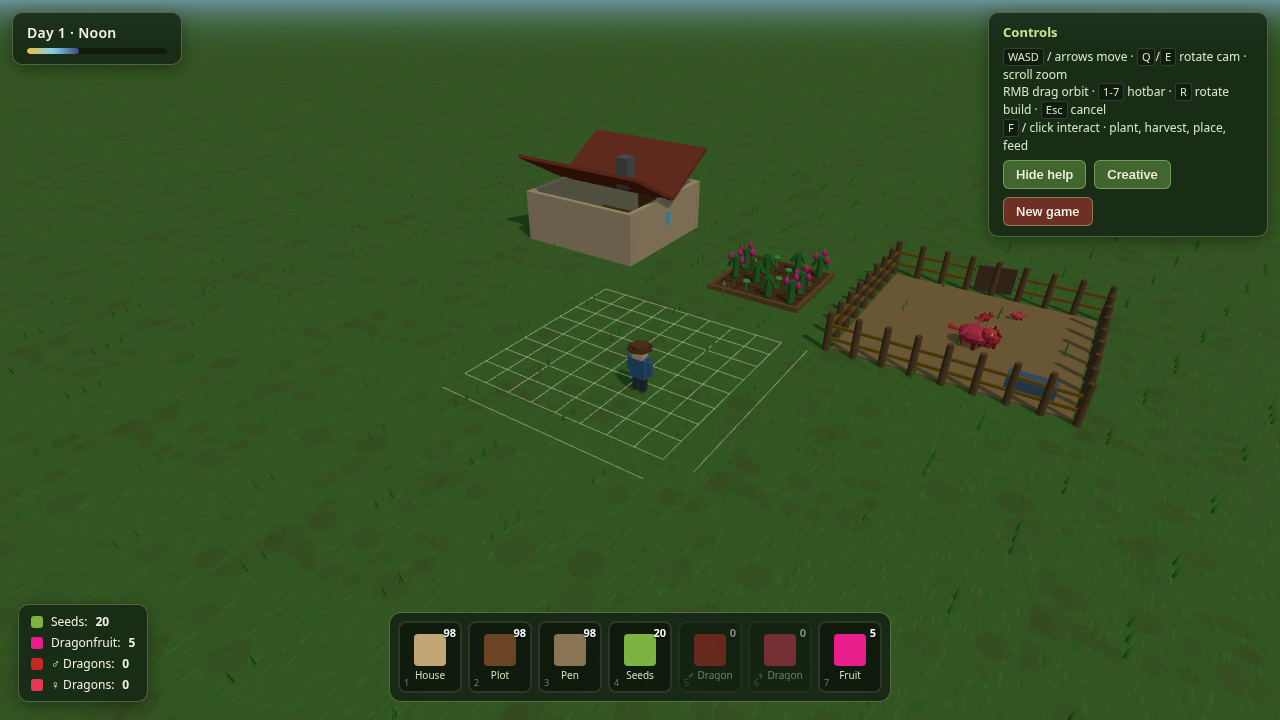
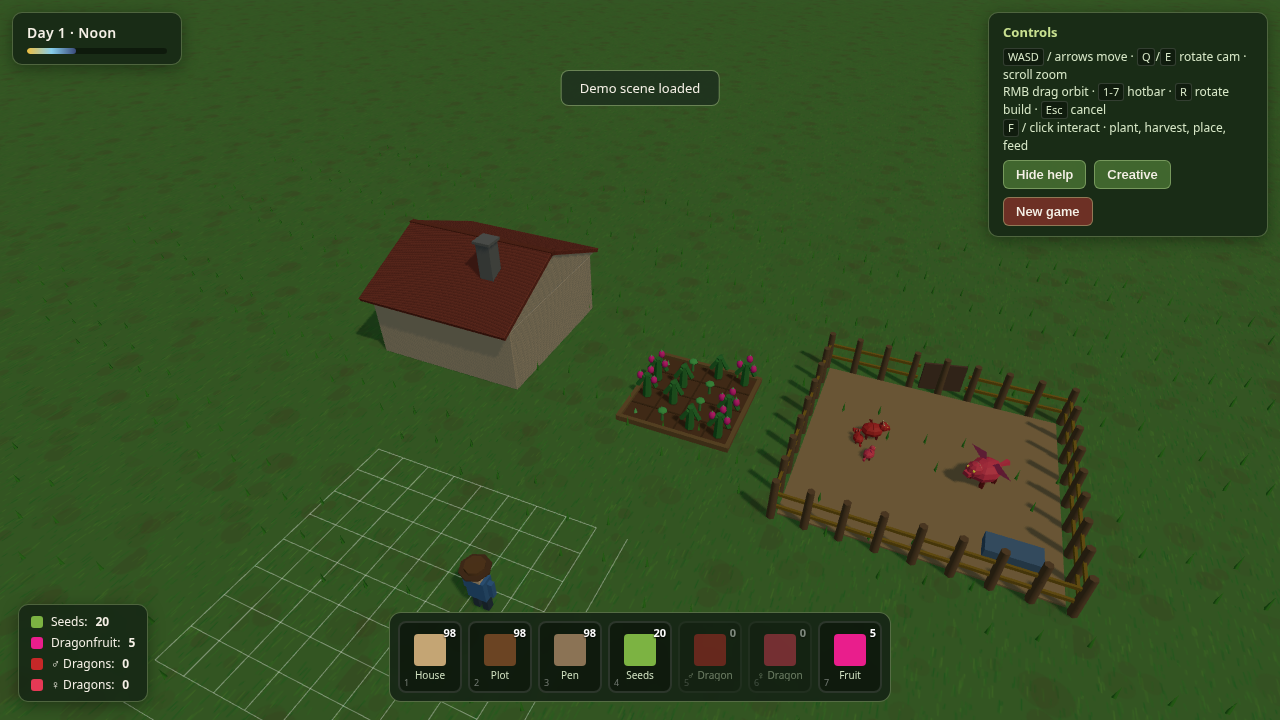
Fix farmhouse pitched roof, gables, and chimney
Rebuild farmhouse with exact-vertex roof slabs that meet at the ridge,
extruded triangular gables spanning the full roof profile, attic seal,
door/windows, and chimney through the north slope. Skip pen fence
collision (rotation/gate complexity). Refresh demo screenshots.

diff --git a/src/buildings.js b/src/buildings.js
@@ -6,93 +6,200 @@ function setShadow(mesh) {
   mesh.receiveShadow = true;
 }
 
-/** Build a low-poly farmhouse group (6x6 footprint, origin at SW corner of footprint). */
+/** Build a low-poly farmhouse group (6x6 footprint, origin at SW corner). */
 export function createFarmhouse() {
   const g = new THREE.Group();
   g.name = 'farmhouse';
   const w = BUILDINGS.farmhouse.w;
   const d = BUILDINGS.farmhouse.d;
 
-  // Floor
-  const floor = new THREE.Mesh(
-    new THREE.BoxGeometry(w - 0.2, 0.15, d - 0.2),
-    new THREE.MeshStandardMaterial({ color: 0x8b6914 })
-  );
-  floor.position.set(w / 2, 0.08, d / 2);
-  setShadow(floor);
-  g.add(floor);
+  const wallMat = new THREE.MeshStandardMaterial({
+    color: 0xd4b896,
+    roughness: 0.78,
+    side: THREE.DoubleSide,
+  });
+  const roofMat = new THREE.MeshStandardMaterial({
+    color: 0x8b3a2a,
+    roughness: 0.85,
+    flatShading: true,
+    side: THREE.DoubleSide,
+  });
+  const woodMat = new THREE.MeshStandardMaterial({ color: 0x5c3317, roughness: 0.9 });
+  const glassMat = new THREE.MeshStandardMaterial({
+    color: 0x87ceeb,
+    emissive: 0x224466,
+    emissiveIntensity: 0.35,
+    roughness: 0.4,
+  });
+  const brickMat = new THREE.MeshStandardMaterial({ color: 0x6a6a6a, roughness: 0.95 });
+  const floorMat = new THREE.MeshStandardMaterial({ color: 0x8b6914, roughness: 1 });
+  const ridgeMat = new THREE.MeshStandardMaterial({ color: 0x6b2a1a, roughness: 0.9 });
 
-  // Walls
-  const wallMat = new THREE.MeshStandardMaterial({ color: 0xd4b896, roughness: 0.75 });
-  const wallH = 2.4;
-  const thick = 0.25;
-  // Walls with door gap on south
-  // South wall with door: two pieces
+  const wallH = 2.5;
+  const thick = 0.3;
   const doorW = 1.2;
-  const leftW = (w - doorW) / 2;
-  const swL = new THREE.Mesh(new THREE.BoxGeometry(leftW, wallH, thick), wallMat);
-  swL.position.set(leftW / 2, wallH / 2, thick / 2);
-  setShadow(swL);
-  g.add(swL);
-  const swR = new THREE.Mesh(new THREE.BoxGeometry(leftW, wallH, thick), wallMat);
-  swR.position.set(w - leftW / 2, wallH / 2, thick / 2);
-  setShadow(swR);
-  g.add(swR);
+  const doorH = 1.9;
+  // Overhang only on the sloping eaves (N/S). Gable ends (E/W) stay nearly flush
+  // so triangular gables meet the roof with no sky gaps.
+  const eaveOverhang = 0.45;
+  const gableOverhang = 0.12;
+  const ridgeH = wallH + 1.55;
+  const eaveY = wallH;
 
-  // North
-  const nw = new THREE.Mesh(new THREE.BoxGeometry(w, wallH, thick), wallMat);
-  nw.position.set(w / 2, wallH / 2, d - thick / 2);
-  setShadow(nw);
-  g.add(nw);
-  // West / East
-  const ww = new THREE.Mesh(new THREE.BoxGeometry(thick, wallH, d - thick * 2), wallMat);
-  ww.position.set(thick / 2, wallH / 2, d / 2);
-  setShadow(ww);
-  g.add(ww);
-  const ew = ww.clone();
-  ew.position.x = w - thick / 2;
-  g.add(ew);
+  const addBox = (geo, mat, x, y, z) => {
+    const m = new THREE.Mesh(geo, mat);
+    m.position.set(x, y, z);
+    setShadow(m);
+    g.add(m);
+    return m;
+  };
+
+  // Floor
+  addBox(new THREE.BoxGeometry(w - 0.1, 0.12, d - 0.1), floorMat, w / 2, 0.06, d / 2);
+
+  // --- Walls with door on south ---
+  const sideW = (w - doorW) / 2;
+  addBox(new THREE.BoxGeometry(sideW, wallH, thick), wallMat, sideW / 2, wallH / 2, thick / 2);
+  addBox(new THREE.BoxGeometry(sideW, wallH, thick), wallMat, w - sideW / 2, wallH / 2, thick / 2);
+  const lintelH = wallH - doorH;
+  addBox(new THREE.BoxGeometry(doorW, lintelH, thick), wallMat, w / 2, doorH + lintelH / 2, thick / 2);
+  addBox(new THREE.BoxGeometry(w, wallH, thick), wallMat, w / 2, wallH / 2, d - thick / 2);
+  addBox(new THREE.BoxGeometry(thick, wallH, d - thick * 2), wallMat, thick / 2, wallH / 2, d / 2);
+  addBox(new THREE.BoxGeometry(thick, wallH, d - thick * 2), wallMat, w - thick / 2, wallH / 2, d / 2);
 
   // Door
-  const door = new THREE.Mesh(
-    new THREE.BoxGeometry(doorW * 0.9, 1.8, 0.08),
-    new THREE.MeshStandardMaterial({ color: 0x5c3317 })
-  );
-  door.position.set(w / 2, 0.9, thick / 2 + 0.05);
+  const door = new THREE.Mesh(new THREE.BoxGeometry(doorW * 0.9, doorH * 0.95, 0.1), woodMat);
+  door.position.set(w / 2, doorH * 0.48, thick / 2 + 0.06);
   g.add(door);
-
-  // Roof (pitched)
-  const roofMat = new THREE.MeshStandardMaterial({ color: 0x8b3a2a, roughness: 0.85, flatShading: true });
-  const ridge = wallH + 1.6;
-  const eave = wallH - 0.05;
-  // Simple two-plane roof via boxes rotated
-  const roofL = new THREE.Mesh(new THREE.BoxGeometry(w + 0.6, 0.15, d / 2 + 0.4), roofMat);
-  roofL.position.set(w / 2, (eave + ridge) / 2, d / 4);
-  roofL.rotation.x = Math.atan2(ridge - eave, d / 2);
-  setShadow(roofL);
-  g.add(roofL);
-  const roofR = new THREE.Mesh(new THREE.BoxGeometry(w + 0.6, 0.15, d / 2 + 0.4), roofMat);
-  roofR.position.set(w / 2, (eave + ridge) / 2, (3 * d) / 4);
-  roofR.rotation.x = -Math.atan2(ridge - eave, d / 2);
-  setShadow(roofR);
-  g.add(roofR);
-
-  // Chimney
-  const chim = new THREE.Mesh(
-    new THREE.BoxGeometry(0.6, 1.4, 0.6),
-    new THREE.MeshStandardMaterial({ color: 0x6a6a6a })
+  const knob = new THREE.Mesh(
+    new THREE.SphereGeometry(0.05, 6, 4),
+    new THREE.MeshStandardMaterial({ color: 0xd4af37 })
   );
-  chim.position.set(w * 0.75, wallH + 1.2, d * 0.7);
+  knob.position.set(w / 2 + doorW * 0.28, doorH * 0.45, thick / 2 + 0.13);
+  g.add(knob);
+
+  // Windows
+  const addWindow = (x, y, z, rotY = 0) => {
+    const frame = new THREE.Mesh(new THREE.BoxGeometry(0.9, 0.9, 0.12), woodMat);
+    frame.position.set(x, y, z);
+    frame.rotation.y = rotY;
+    g.add(frame);
+    const glass = new THREE.Mesh(new THREE.BoxGeometry(0.68, 0.68, 0.06), glassMat);
+    glass.position.set(x + Math.sin(rotY) * 0.04, y, z + Math.cos(rotY) * 0.04);
+    glass.rotation.y = rotY;
+    g.add(glass);
+  };
+  addWindow(w - thick / 2, 1.5, d * 0.3, Math.PI / 2);
+  addWindow(w - thick / 2, 1.5, d * 0.7, Math.PI / 2);
+  addWindow(thick / 2, 1.5, d * 0.5, -Math.PI / 2);
+  addWindow(w * 0.35, 1.5, d - thick / 2, Math.PI);
+  addWindow(w * 0.65, 1.5, d - thick / 2, Math.PI);
+
+  // --- Gable walls: pentagon matching roof line at the end wall plane ---
+  // Roof y along Z: y(z) = ridgeH - |z - d/2| / (d/2 + eaveOverhang) * (ridgeH - eaveY)
+  const run = d / 2 + eaveOverhang;
+  const rise = ridgeH - eaveY;
+  const roofYAt = (z) => ridgeH - (Math.abs(z - d / 2) / run) * rise;
+
+  // Gables span the FULL roof depth (including eave overhangs) so the end
+  // elevation is a solid triangle under the entire roof profile — no sky gaps.
+  const buildGable = (x) => {
+    const halfSpan = d / 2 + eaveOverhang; // matches roof run
+    const shape = new THREE.Shape();
+    // Local: X → house Z (centered at ridge), Y → up from eaveY
+    shape.moveTo(-halfSpan, 0);
+    shape.lineTo(0, ridgeH - eaveY);
+    shape.lineTo(halfSpan, 0);
+    shape.closePath();
+    const geo = new THREE.ExtrudeGeometry(shape, { depth: thick * 0.85, bevelEnabled: false });
+    geo.translate(0, 0, -thick * 0.425);
+    const mesh = new THREE.Mesh(geo, wallMat);
+    mesh.rotation.y = Math.PI / 2;
+    mesh.position.set(x, eaveY, d / 2);
+    setShadow(mesh);
+    g.add(mesh);
+  };
+  buildGable(thick / 2);
+  buildGable(w - thick / 2);
+
+  // --- Roof: two slabs with exact corners (eave overhang N/S, slight gable overhang E/W) ---
+  const x0 = -gableOverhang;
+  const x1 = w + gableOverhang;
+  const zRidge = d / 2;
+  const zSouth = -eaveOverhang;
+  const zNorth = d + eaveOverhang;
+  const thickness = 0.16;
+
+  const makeRoofSlab = (zEave) => {
+    // Bottom surface (underside)
+    const A = [x0, eaveY, zEave];
+    const B = [x1, eaveY, zEave];
+    const C = [x1, ridgeH, zRidge];
+    const D = [x0, ridgeH, zRidge];
+    // Normal of roof plane (pointing roughly up)
+    const e1 = [B[0] - A[0], B[1] - A[1], B[2] - A[2]];
+    const e2 = [D[0] - A[0], D[1] - A[1], D[2] - A[2]];
+    let nx = e1[1] * e2[2] - e1[2] * e2[1];
+    let ny = e1[2] * e2[0] - e1[0] * e2[2];
+    let nz = e1[0] * e2[1] - e1[1] * e2[0];
+    const nl = Math.hypot(nx, ny, nz) || 1;
+    nx /= nl; ny /= nl; nz /= nl;
+    if (ny < 0) { nx = -nx; ny = -ny; nz = -nz; }
+    const lift = (p) => [p[0] + nx * thickness, p[1] + ny * thickness, p[2] + nz * thickness];
+    const At = lift(A), Bt = lift(B), Ct = lift(C), Dt = lift(D);
+
+    const pos = [];
+    const quad = (a, b, c, d) => { pos.push(...a, ...b, ...c, ...a, ...c, ...d); };
+    quad(At, Bt, Ct, Dt); // top
+    quad(A, D, C, B); // bottom
+    quad(A, B, Bt, At); // eave edge
+    quad(D, C, Ct, Dt); // ridge edge
+    quad(A, At, Dt, D); // x0 side
+    quad(B, C, Ct, Bt); // x1 side
+
+    const geo = new THREE.BufferGeometry();
+    geo.setAttribute('position', new THREE.Float32BufferAttribute(pos, 3));
+    geo.computeVertexNormals();
+    const mesh = new THREE.Mesh(geo, roofMat);
+    setShadow(mesh);
+    g.add(mesh);
+  };
+  makeRoofSlab(zSouth);
+  makeRoofSlab(zNorth);
+
+  // Ridge beam
+  addBox(
+    new THREE.BoxGeometry(w + gableOverhang * 2 + 0.08, 0.14, 0.22),
+    ridgeMat,
+    w / 2,
+    ridgeH + thickness * 0.6,
+    d / 2
+  );
+
+  // Attic ceiling seal (horizontal plane at wall top) — prevents any see-through
+  const attic = new THREE.Mesh(
+    new THREE.BoxGeometry(w - thick, 0.08, d - thick),
+    wallMat
+  );
+  attic.position.set(w / 2, wallH - 0.02, d / 2);
+  g.add(attic);
+
+  // Chimney through north slope
+  const chimW = 0.55;
+  const chimH = 1.75;
+  const chimZ = d / 2 + run * 0.4;
+  const chimRoofY = roofYAt(chimZ);
+  const chim = new THREE.Mesh(new THREE.BoxGeometry(chimW, chimH, chimW), brickMat);
+  chim.position.set(w * 0.72, chimRoofY + chimH * 0.32, chimZ);
   setShadow(chim);
   g.add(chim);
-
-  // Window
-  const win = new THREE.Mesh(
-    new THREE.BoxGeometry(0.7, 0.7, 0.08),
-    new THREE.MeshStandardMaterial({ color: 0x87ceeb, emissive: 0x224466, emissiveIntensity: 0.3 })
+  addBox(
+    new THREE.BoxGeometry(chimW + 0.14, 0.1, chimW + 0.14),
+    brickMat,
+    chim.position.x,
+    chim.position.y + chimH / 2 + 0.05,
+    chim.position.z
   );
-  win.position.set(w - thick / 2 - 0.02, 1.4, d / 2);
-  g.add(win);
 
   return g;
 }
